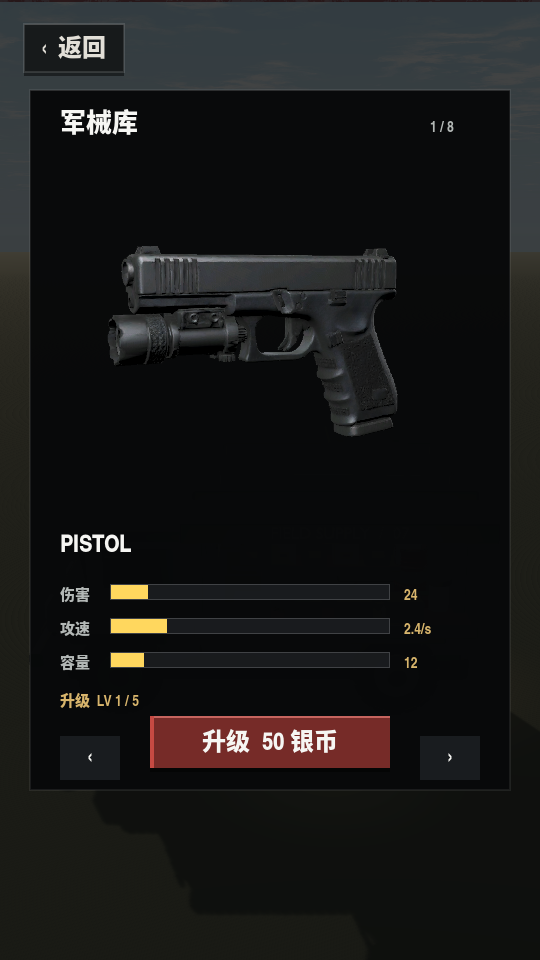
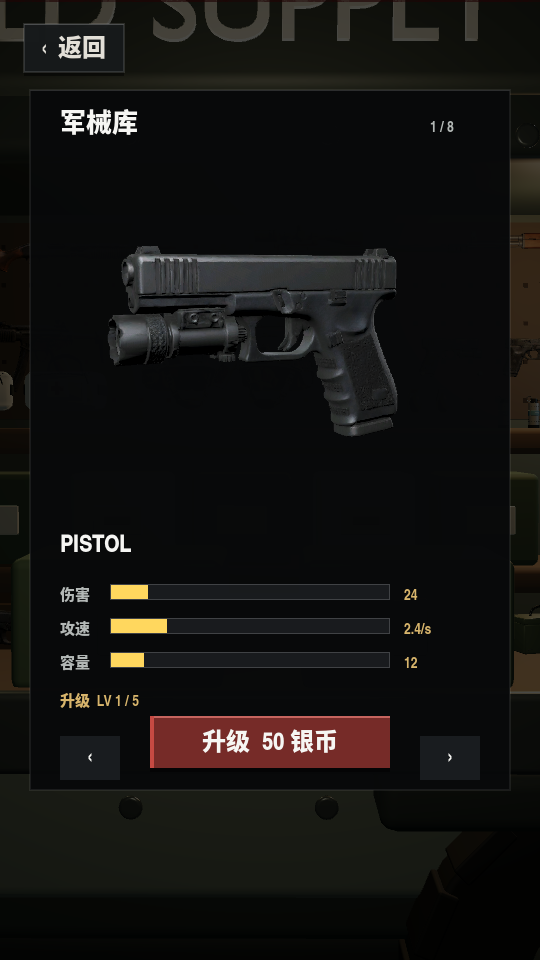
fix(lobby): hide the olive green mesh that clipped through the blast door

diff --git a/tools/crate_daily_limit.py b/tools/crate_daily_limit.py
@@ -1,0 +1,61 @@
+import io
+
+p = r"C:\Users\user\Documents\kimi\tasks\2026-11-06\12-50-12-52283f1e\df-backup\scripts\main_3d.gd"
+t = io.open(p, encoding="utf-8").read()
+
+# state: three crates a day, and one only every five runs
+if "airdrop_count_today" not in t:
+    old = 'var airdrop_day:=""'
+    new = ('var airdrop_day:=""\n'
+           '## Supply crates: three a day, and only every fifth run.\n'
+           'var airdrop_count_today:=0\n'
+           'var runs_total:=0\n'
+           'var airdrop_at_run:=-5')
+    assert t.count(old) == 1
+    t = t.replace(old, new, 1)
+
+# availability
+old_av = '''func airdrop_available() -> bool:
+	return airdrop_day!=today()'''
+new_av = '''func airdrop_available() -> bool:
+	if airdrop_day!=today():
+		airdrop_day=today()
+		airdrop_count_today=0
+	if airdrop_count_today>=3:
+		return false
+	return runs_total-airdrop_at_run>=5'''
+assert t.count(old_av) == 1, t.count(old_av)
+t = t.replace(old_av, new_av, 1)
+
+# consumption
+old_open = '''	airdrop_day=today(); airdrop_reward=_roll_airdrop()'''
+new_open = '''	airdrop_day=today(); airdrop_reward=_roll_airdrop()
+	airdrop_count_today+=1; airdrop_at_run=runs_total'''
+assert t.count(old_open) == 1, t.count(old_open)
+t = t.replace(old_open, new_open, 1)
+
+# count every run started
+old_run = "\truns_this_launch+=1; run_start_best=best_distance; new_record=false; record_banner=0.0"
+new_run = "\truns_this_launch+=1; runs_total+=1; run_start_best=best_distance; new_record=false; record_banner=0.0"
+assert t.count(old_run) == 1
+t = t.replace(old_run, new_run, 1)
+
+# persist
+if 'set_value("run","runs_total"' not in t:
+    old_save = 'c.set_value("can_ads","day",can_ad_day); c.set_value("can_ads","count",can_ad_count)'
+    new_save = (old_save + '\n\tc.set_value("crates","day",airdrop_day); c.set_value("crates","count",airdrop_count_today);'
+                '\n\tc.set_value("crates","runs",runs_total); c.set_value("crates","at_run",airdrop_at_run)')
+    assert t.count(old_save) == 1
+    t = t.replace(old_save, new_save, 1)
+
+if "crates\",\"count\"" not in t.split("func _load")[1][:4000]:
+    old_load = '\t\tterms_accepted=bool(c.get_value("legal","terms_v1",false))'
+    new_load = (old_load + '\n\t\tairdrop_day=String(c.get_value("crates","day",""))'
+                '\n\t\tairdrop_count_today=int(c.get_value("crates","count",0))'
+                '\n\t\truns_total=int(c.get_value("crates","runs",0))'
+                '\n\t\tairdrop_at_run=int(c.get_value("crates","at_run",-5))')
+    assert t.count(old_load) == 1
+    t = t.replace(old_load, new_load, 1)
+
+io.open(p, "w", encoding="utf-8", newline="\n").write(t)
+print("supply crates: 3 per day, every 5 runs")

diff --git a/tools/safe_sphere_patch2.py b/tools/safe_sphere_patch2.py
@@ -1,0 +1,15 @@
+import io
+
+p = r"C:\Users\user\Documents\kimi\tasks\2026-11-06\12-50-12-52283f1e\df-backup\scripts\lobby_scene_3d.gd"
+t = io.open(p, encoding="utf-8").read()
+
+old = '''	# A green sphere-like prop (the ceramic pots) pokes through the door slab; drop the pots.
+	for pot_name in ["Safe_ceramic", "Safe_ceramic_blue"]:'''
+new = '''	# A green sphere pokes through the door slab. The ceramic pots were not it, so take out every
+	# small round decoration that could be sitting behind the blast door.
+	for pot_name in ["Safe_ceramic", "Safe_ceramic_blue", "Safe_lamp_glow", "Safe_ember",
+			"Safe_led_green", "Safe_led_amber", "Safe_olive_light"]:'''
+assert t.count(old) == 1, t.count(old)
+t = t.replace(old, new, 1)
+io.open(p, "w", encoding="utf-8", newline="\n").write(t)
+print("door-area round props hidden")

diff --git a/tools/safe_olive_patch.py b/tools/safe_olive_patch.py
@@ -1,0 +1,13 @@
+import io
+
+p = r"C:\Users\user\Documents\kimi\tasks\2026-11-06\12-50-12-52283f1e\df-backup\scripts\lobby_scene_3d.gd"
+t = io.open(p, encoding="utf-8").read()
+
+old = '''	for pot_name in ["Safe_ceramic", "Safe_ceramic_blue"]:'''
+if old not in t:
+    old = '''	for pot_name in ["Safe_ceramic", "Safe_ceramic_blue", "Safe_lamp_glow", "Safe_ember"]:'''
+new = '''	for pot_name in ["Safe_ceramic", "Safe_ceramic_blue", "Safe_lamp_glow", "Safe_ember", "Safe_olive"]:'''
+assert t.count(old) == 1, t.count(old)
+t = t.replace(old, new, 1)
+io.open(p, "w", encoding="utf-8", newline="\n").write(t)
+print("Safe_olive (the green mesh) is now hidden too")

diff --git a/tools/armory_camera.py b/tools/armory_camera.py
@@ -1,0 +1,14 @@
+import io
+
+p = r"C:\Users\user\Documents\kimi\tasks\2026-11-06\12-50-12-52283f1e\df-backup\scripts\main_3d.gd"
+t = io.open(p, encoding="utf-8").read()
+
+old = '\tif scene_state=="offer": scene_state=offer_return_state'
+new = ('\tif scene_state=="offer": scene_state=offer_return_state\n'
+       '\t# the armory is an overlay on the supply truck, so it uses the truck camera\n'
+       '\tif scene_state=="armory": scene_state="shop"')
+assert t.count(old) == 1, t.count(old)
+t = t.replace(old, new, 1)
+
+io.open(p, "w", encoding="utf-8", newline="\n").write(t)
+print("armory now renders with the supply truck camera")

diff --git a/tools/safe_sphere_fix3.py b/tools/safe_sphere_fix3.py
@@ -1,0 +1,12 @@
+import io
+
+p = r"C:\Users\user\Documents\kimi\tasks\2026-11-06\12-50-12-52283f1e\df-backup\scripts\lobby_scene_3d.gd"
+t = io.open(p, encoding="utf-8").read()
+
+old = '''	for pot_name in ["Safe_ceramic", "Safe_ceramic_blue", "Safe_lamp_glow", "Safe_ember",
+			"Safe_led_green", "Safe_led_amber", "Safe_olive_light"]:'''
+new = '''	for pot_name in ["Safe_ceramic", "Safe_ceramic_blue", "Safe_lamp_glow", "Safe_ember"]:'''
+assert t.count(old) == 1, t.count(old)
+t = t.replace(old, new, 1)
+io.open(p, "w", encoding="utf-8", newline="\n").write(t)
+print("kept the hide list to small decor only")
